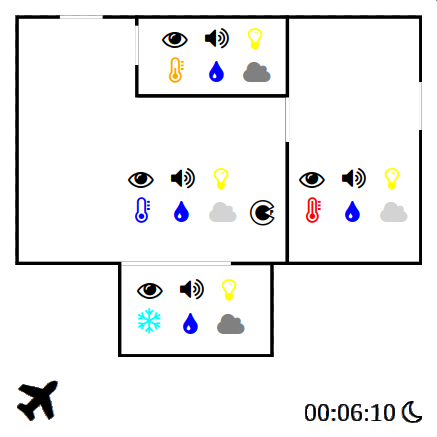
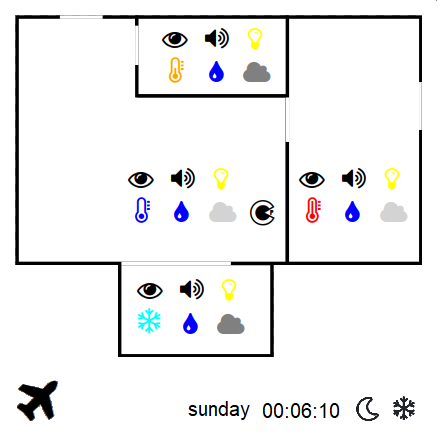
Add day and season on map
- Add helper file
- Add day of the week in Map
- Add season in Map
- Remove seaborn of requirements

Changed region(s): [[0.4165, 0.8924, 0.9817, 0.9817]]

diff --git a/tadashi/Map/Core/mapDrawer.py b/tadashi/Map/Core/mapDrawer.py
@@ -4,6 +4,8 @@ import pytz
 from astral import Astral
 from ...Fibaro.Model.room import OpeningState
 from ...Fibaro.Model.room import MonoxideState
+from ...utils.helper import get_season
+from ...utils.helper import get_day_of_week
 
 
 class MapDrawer:
@@ -37,16 +39,26 @@ class MapDrawer:
             handle = self.draw_shutter_sensor(handle)
         return handle
 
-    def draw_date(self, handle, x=178, y=246, size='15', color='black'):
-        date = datetime.datetime.now().strftime('%H:%M:%S')
+    def draw_date(self, handle, x=90, y=246, size='15', color='black'):
+        hour = datetime.datetime.now().strftime('%H:%M:%S')
+        day_of_week = get_day_of_week()
+        season = get_season()
+
+        season_icon = fa.icons["snowflake"]
+        if season == 'spring':
+            season_icon = fa.icons["yelp"]
+        elif season == 'summer':
+            season_icon = fa.icons["sun"]
+        elif season == 'fall':
+            season_icon = fa.icons["envira"]
+
         utc = pytz.UTC
-        icon = fa.icons["moon"]
         sun = self._astral.sun(date=datetime.datetime.now(), local=True)
-
+        sun_icon = fa.icons["moon"]
         if sun['sunrise'].replace(tzinfo=utc) < datetime.datetime.now().replace(tzinfo=utc) < sun['sunset'].replace(tzinfo=utc):
-            icon = fa.icons["sun"]
+            sun_icon = fa.icons["sun"]
 
-        text = date + "  " + icon
+        text = day_of_week + '  ' + hour + '  ' + sun_icon + '  ' + season_icon
         handle = self.draw_text(handle, text, x, y, size, color)
         return handle
 
@@ -131,3 +143,7 @@ class MapDrawer:
     def draw_door(self, handle, x1, y1, x2, y2, width="2", color="white"):
         handle.add(handle.line((x1, y1), (x2, y2), stroke_width=width, stroke=color))
         return handle
+
+    def print_all_fontawesome(self):
+        for icon in fa.icons:
+            print(icon + '    ' + fa.icons[icon])

diff --git a/tadashi/utils/helper.py b/tadashi/utils/helper.py
@@ -1,0 +1,25 @@
+
+def get_season():
+    from datetime import date, datetime
+
+    dummy_year = 2000  # dummy leap year to allow input X-02-29 (leap day)
+    seasons = [('winter', (date(dummy_year, 1, 1), date(dummy_year, 3, 20))),
+               ('spring', (date(dummy_year, 3, 21), date(dummy_year, 6, 20))),
+               ('summer', (date(dummy_year, 6, 21), date(dummy_year, 9, 22))),
+               ('autumn', (date(dummy_year, 9, 23), date(dummy_year, 12, 20))),
+               ('winter', (date(dummy_year, 12, 21), date(dummy_year, 12, 31)))]
+
+    now = date.today()
+    now = now.replace(year=dummy_year)
+    season = next(season for season, (start, end) in seasons if start <= now <= end)
+
+    return season
+
+
+def get_day_of_week():
+    from datetime import date
+    import calendar
+
+    my_date = date.today()
+
+    return calendar.day_name[my_date.weekday()]

diff --git a/README.md b/README.md
@@ -77,7 +77,8 @@ After, mapdrawing classes knowing the location of walls and sensors build a 256x
 To charm you, I put below an example of generated map from sensor states:
 <p align="center"><img width="300px" src="https://github.com/FerreroJeremy/tadashi/blob/master/doc/map.png"></p>
 
-You can see in the lower left corner a future feature, the context.
+In the lower right corner, you can see (from left to right): the day of the week, the hour, whether it is day or night (here it is night), and the season (here it is winter). 
+You can also see in the lower left corner a future feature, the context.
 The context will be the activity do by the customer or the meta-state of the home, e.g. travelling, cooking, sleeping... and it will be useful to supply an additional information to the neural network.
 For now, the default context is set to `UNKNOWN` and does not appear on the map.
 
@@ -188,19 +189,18 @@ The classes imported from the Python Standard Library do not appear in the diagr
 
 The list of the current dependencies can be found in the `requirements.txt` file, and is also available below.
 
-- svgwrite 1.3.1
-- seaborn 0.9.0
-- tensorflow 1.14.0
-- pandas 0.24.2
-- requests 2.21.0
-- pytz 2018.9
 - Keras 2.2.4
-- numpy 1.16.4
-- fontawesome 5.7.2
+- opencv_python 4.1.0.25
 - CairoSVG 2.4.0
 - astral 1.10.1
+- numpy 1.16.4
+- fontawesome 5.7.2
+- pandas 0.24.2
+- svgwrite 1.3.1
+- requests 2.21.0
 - matplotlib 3.1.1
-- opencv_python 4.1.0.25
+- tensorflow 1.14.0
+- pytz 2018.9
 - scikit_learn 0.21.2
 - PyYAML 5.1.1
 
